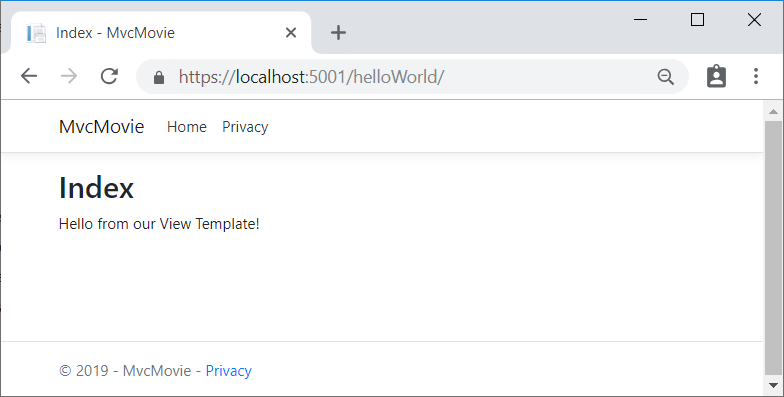
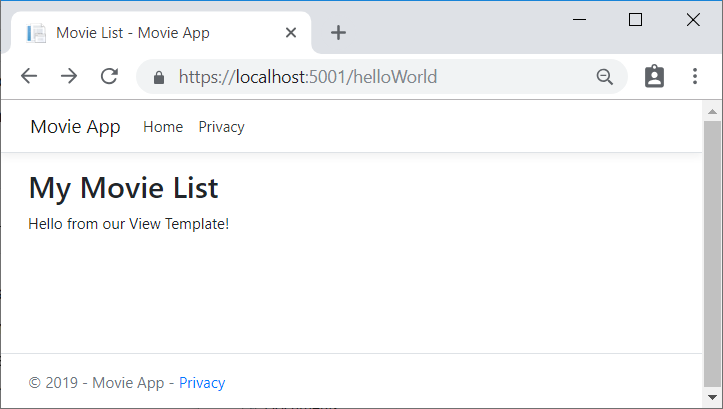
work

diff --git a/aspnetcore/tutorials/first-mvc-app/adding-view.md b/aspnetcore/tutorials/first-mvc-app/adding-view.md
@@ -69,7 +69,9 @@ Add an `Index` view for the `HelloWorldController`.
 
 Replace the contents of the *Views/HelloWorld/Index.cshtml* Razor view file with the following:
 
-[!code-HTML[](~/tutorials/first-mvc-app/start-mvc/sample/MvcMovie22/Views/HelloWorld/Index1.cshtml)]
+[!code-HTML[](~/tutorials/first-mvc-app/start-mvc/sample/MvcMovie22/Views/HelloWorld/Index.cshtml?highlight=2,5)]
+
+The preceding markup changed the title and the `<h2>` element.
 
 Navigate to `https://localhost:xxxx/HelloWorld`. The `Index` method in the `HelloWorldController` didn't do much; it ran the statement `return View();`, which specified that the method should use a view template file to render a response to the browser. Because you didn't explicitly specify the name of the view template file, MVC defaulted to using the *Index.cshtml* view file in the */Views/HelloWorld* folder. The image below shows the string "Hello from our View Template!" hard-coded in the view.
 
